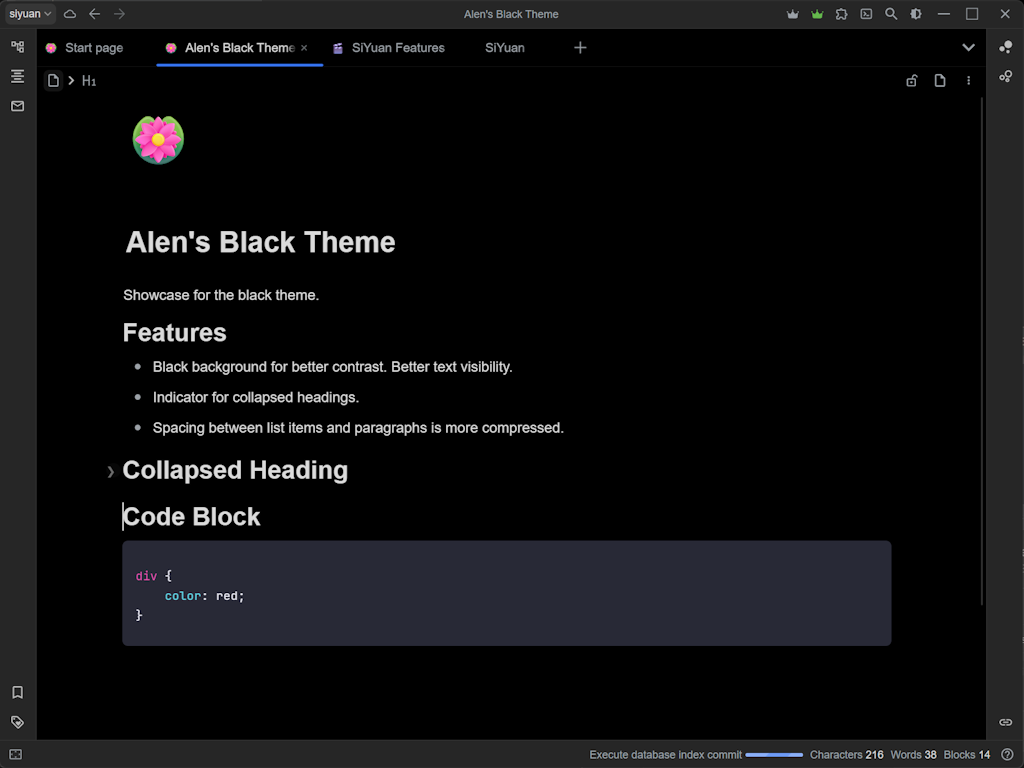
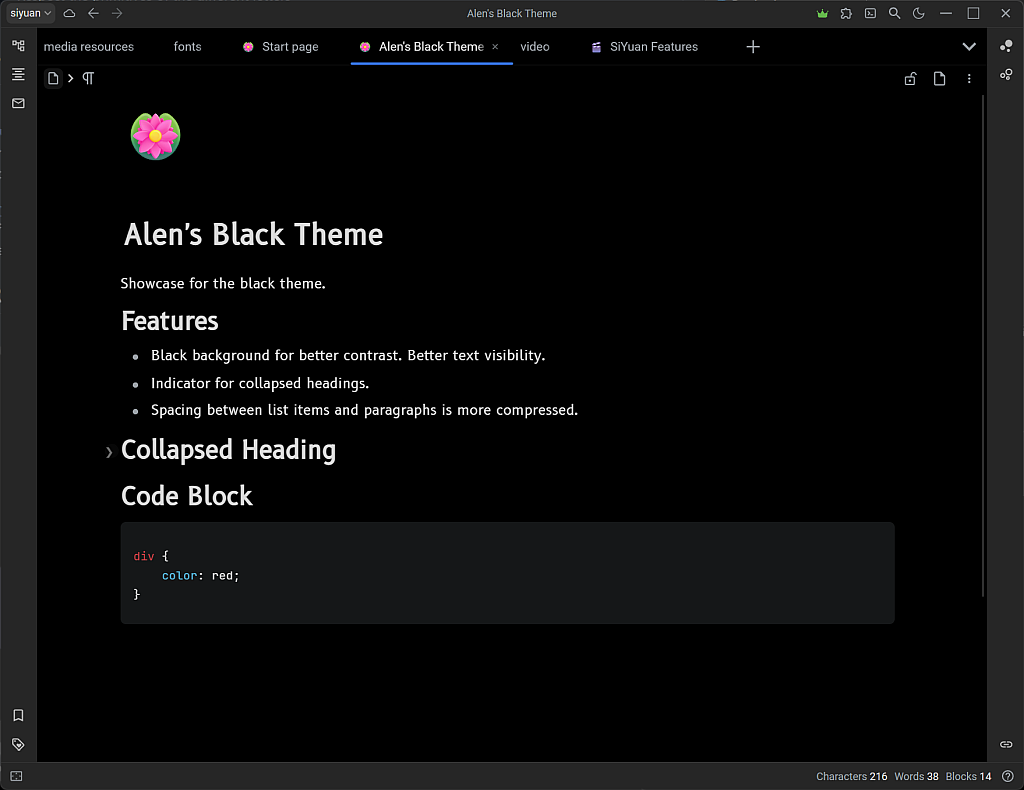
fonts

diff --git a/theme.css b/theme.css
@@ -1,9 +1,25 @@
+@font-face {
+    font-family: 'RobotoRegular';
+        src: url('https://fontlibrary.org//assets/fonts/font-of-primalis/2e3729c84817ad595f48b6f8099e82f5/11eabca2251325cfc5589c9c6fb57b46/RobotoRegular.ttf') format('truetype');
+    font-weight: normal;
+    font-style: normal;
+}
+@font-face {
+    font-family: 'FiraCodeMedium';
+        src: url('/assets/fonts/fira-code/6aa58bd032ec58aecd8fa5af611a6882/b7f872bdcd6635d32fc0467b32094fec/FiraCodeMedium.ttf') format('truetype');
+    font-weight: normal;
+    font-style: normal;
+}
+
 :root {
     /* font size */
-    /*--b3-font-size: 21px;*/
     --b3-font-size-editor: 16px;
-    /*--b3-font-family: 'Arial', 'Helvetica', 'Roboto', sans-serif;*/
-    --b3-font-family-protyle: sans-serif;
+    --b3-font-family: "RobotoRegular", "Emojis Additional", "Emojis Reset", BlinkMacSystemFont, Helvetica, "Luxi Sans", "DejaVu Sans", arial, sans-serif, emojis;
+    --b3-font-family-protyle: "B612", var(--b3-font-family);
+    --b3-font-family-code: "FiraCodeMedium", "Emojis Additional", "Emojis Reset", "JetBrainsMono-Regular", mononoki, Consolas, "Liberation Mono", var(--b3-font-family);
+    /*--b3-font-family-graph: arial;*/
+    /*--b3-font-family-emoji: "Emojis Additional", emojis;*/
+    /*--b3-font-family-math: KaTeX_Math;*/
 }
 /* background colour depends on user preferences */
 @media (prefers-color-scheme: dark) {
